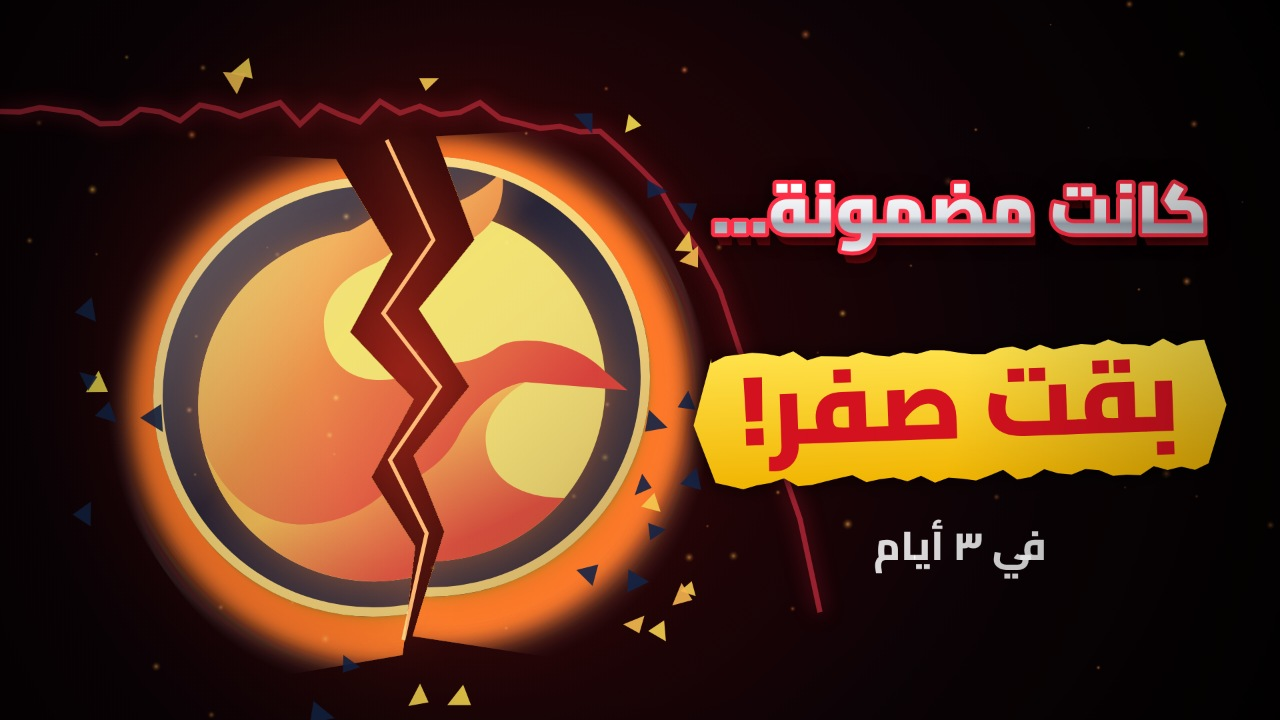
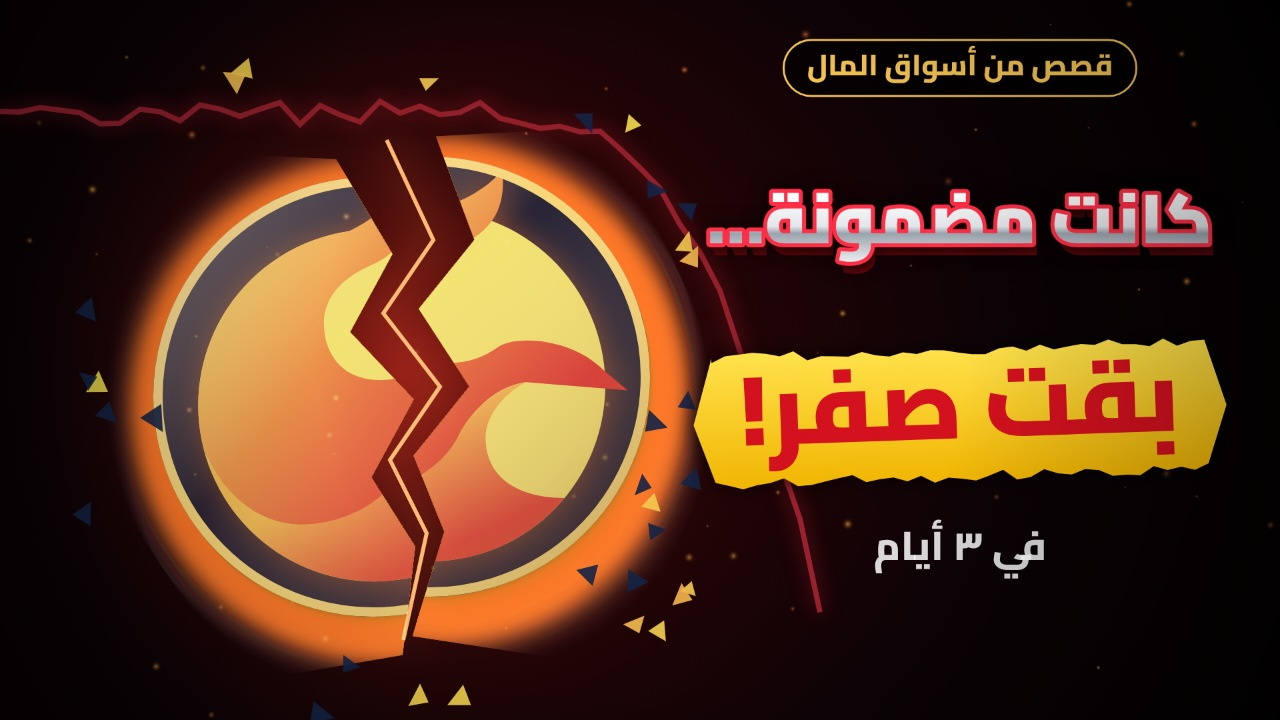
Luna: series name on thumbnails and title
Claude-Session: https://claude.ai/code/session_01H4u2kgVqCqtAn1KCSmJnQt

Changed region(s): [[0.5312, 0.2444, 0.9688, 0.3972], [0.625, 0.0306, 0.875, 0.1528]]

diff --git a/videos/luna/luna-titles.md b/videos/luna/luna-titles.md
@@ -2,7 +2,7 @@
 
 ## العنوان المختار
 ```
-ليه انهارت لونا؟ أكبر كارثة في تاريخ الكريبتو
+ليه انهارت لونا؟ أكبر كارثة في تاريخ الكريبتو | قصص من أسواق المال
 ```
 
 ## الثامبنيل الجديد
@@ -29,3 +29,8 @@
 4. اعمل شورت من أقوى ٤٥ ثانية، وحط الفيديو ده كـ Related video.
 
 ℹ الأرقام: لونا كانت عند حوالي $119 في أبريل ٢٠٢٢ ووصلت لأقل من $0.0001 في مايو ٢٠٢٢، والقيمة السوقية اللي اتمسحت (لونا + UST) حوالي ٤٠ مليار دولار.
+
+## الثامبنيلز النهائية (عليها اسم السلسلة «قصص من أسواق المال»)
+- `luna-thumbnail-v1.jpg`: كانت مضمونة… بقت صفر!
+- `luna-thumbnail-v2.jpg`: محدش لحق يبيع! (**ترشيحي**)
+- `luna-thumbnail-v3.jpg`: صحيوا لقوها صفر!
